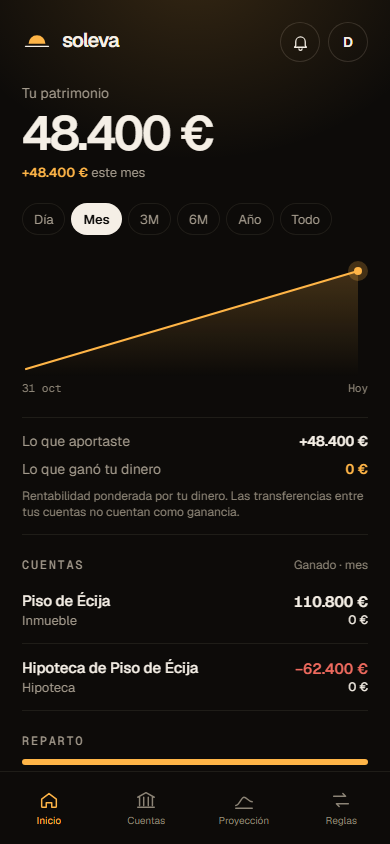
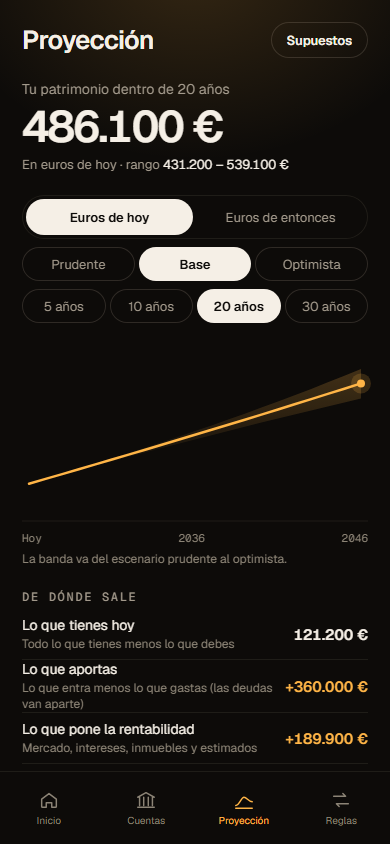
docs: v0.13.0, the projection from what you have, with how am I and what-ifs
README, README.en and CHANGELOG for block 13, cover screenshot of Projection v2,
and minimatch forced to 11.0.5 in dev (Dependabot).

diff --git a/README.md b/README.md
@@ -15,7 +15,7 @@ Apuntas una vez cómo entra y sale tu dinero (nómina, aportaciones, gastos fijo
 
 > Soleva no mueve dinero, no se conecta a tu banco y no recomienda productos. Toda proyección es una estimación, no asesoramiento.
 
-<p align="center"><img src="docs/portada.png" width="280" alt="Inicio de Soleva en móvil, con datos de prueba"></p>
+<p align="center"><img src="docs/portada.png" width="280" alt="Proyección de Soleva en móvil, con datos de prueba"></p>
 
 ## Funcionalidades
 
@@ -34,8 +34,9 @@ Hoy (bloques 0 a 6 y 8 a 12):
 - Base de datos del libro de movimientos (v0.8.0), motor diario (v0.9.0) y datos y ejecución diaria (v0.10.0): movimientos generados cada día, intereses sobre el saldo real, deudas, dividendos, valoración, rentabilidad, alertas, cierres de bolsa, tipos del BCE, Euríbor oficial y tablas de Hacienda.
 - Pantallas nuevas sobre el libro (v0.11.0): Inicio con lo que aportaste frente a lo que ganó tu dinero por periodo, Alertas, Cuenta con posiciones y movimientos, Añadir producto (buscador con ISIN y bolsas), Cuadre con lo real y Alta inicial en tres pasos.
 - Reglas y productos (v0.12.0): transferencias, ingresos, gastos y cuotas que generan movimientos; planes de inversión; cuenta remunerada con tramos; hipotecas y préstamos fijos o variables con su cuadro; vivienda por los m² de su municipio con el índice de precios del INE; coche por la tabla de Hacienda; bienes; productos sin precio público; baja, «Deshacer la baja» y borrado; y el paso de todos al libro al entrar, comprobado cuenta a cuenta. El cierre de mes da paso al cuadre, con un recordatorio mensual.
+- Proyección v2 (v0.13.0): desde lo que tienes hoy en el libro, tus reglas, planes, deudas, inmuebles, coches y bienes, a 5, 10, 20 o 30 años, en euros de hoy o de entonces, con banda prudente–optimista, de dónde sale cada euro, por tipo y lo que va a pasar (fin de una promoción, revisión de la hipoteca, deuda pagada). «Cómo voy» frente a tu plan fijado (también en Inicio), «¿Qué pasa si…?» (aportar más, pausar un plan, un gasto único) y amortizar o invertir, en dos columnas sin recomendar ninguna.
 
-En camino antes de la beta: la proyección desde tus reglas, planes, deudas y depreciaciones, y el pulido (accesibilidad, rendimiento y app instalable).
+En camino antes de la beta: el pulido (accesibilidad, rendimiento y app instalable).
 
 ## Stack
 
@@ -65,7 +66,7 @@ npm run dev
 
 ## Estado
 
-En construcción: bloques 0 a 6 y 8 a 12 cerrados (v0.12.0), desplegado con el registro cerrado y la lista de espera abierta. El pulido (bloque 7) pasa al final, sobre las pantallas nuevas. Ver [CHANGELOG.md](CHANGELOG.md).
+En construcción: bloques 0 a 6 y 8 a 13 cerrados (v0.13.0), desplegado con el registro cerrado y la lista de espera abierta. El pulido (bloque 7) pasa al final, sobre las pantallas nuevas. Ver [CHANGELOG.md](CHANGELOG.md).
 
 ## Hoja de ruta
 

diff --git a/README.en.md b/README.en.md
@@ -15,7 +15,7 @@ You note once how your money comes in and goes out (salary, contributions, fixed
 
 > Soleva does not move money, does not connect to your bank and does not recommend products. Every projection is an estimate, not advice.
 
-<p align="center"><img src="docs/portada.png" width="280" alt="Soleva Home on mobile, with test data"></p>
+<p align="center"><img src="docs/portada.png" width="280" alt="Soleva Projection on mobile, with test data"></p>
 
 ## Features
 
@@ -34,8 +34,9 @@ Today (blocks 0 to 6 and 8 to 12):
 - Ledger database (v0.8.0), daily engine (v0.9.0) and data and daily runs (v0.10.0): movements generated every day, interest on the real balance, debts, dividends, valuation, returns, alerts, stock closes, ECB rates, the official Euribor and Hacienda's car tables.
 - New screens on the ledger (v0.11.0): Home with what you put in against what your money made in each period, Alerts, Account with positions and movements, Add product (search with ISIN and exchanges), Reconcile against the real figures and a three-step onboarding.
 - Rules and products (v0.12.0): transfers, incomes, expenses and payments that generate movements; investment plans; interest accounts with tiers; fixed or variable mortgages and loans with their schedule; a home by the m² of its municipality with INE's housing price index; a car by Hacienda's table; goods; products without a public price; giving up, undoing it and deleting; and everyone moving to the ledger on the way in, checked account by account. The month close gives way to reconciling, with a monthly reminder.
+- Projection v2 (v0.13.0): from what you have today in the ledger, your rules, plans, debts, homes, cars and goods, 5, 10, 20 or 30 years ahead, in today's euros or euros of then, with a cautious–optimistic band, where each euro comes from, by type and what is coming (end of a promotion, mortgage review, debt paid off). «How am I» against your fixed plan (also on Home), what-ifs (contribute more, pause a plan, a one-off expense) and pay off or invest, in two columns without recommending either.
 
-Coming before the beta: the projection from your rules, plans, debts and depreciation, and polish (accessibility, performance and an installable app).
+Coming before the beta: polish (accessibility, performance and an installable app).
 
 ## Stack
 
@@ -65,7 +66,7 @@ npm run dev
 
 ## Status
 
-Under construction: blocks 0 to 6 and 8 to 12 done (v0.12.0), deployed with sign-up closed and the waitlist open. Polish (block 7) moves to the end, on the new screens. See [CHANGELOG.md](CHANGELOG.md).
+Under construction: blocks 0 to 6 and 8 to 13 done (v0.13.0), deployed with sign-up closed and the waitlist open. Polish (block 7) moves to the end, on the new screens. See [CHANGELOG.md](CHANGELOG.md).
 
 ## Roadmap
 

diff --git a/CHANGELOG.md b/CHANGELOG.md
@@ -4,6 +4,27 @@ Formato: [Keep a Changelog](https://keepachangelog.com/es-ES/1.1.0/). Versiones:
 
 ## [Sin publicar]
 
+## [0.13.0] - 2026-11-09
+
+### Añadido
+
+- Proyección v2 desde lo que tienes hoy en el libro: inversiones a su escenario, remuneradas con sus tramos, promoción y retención, inmuebles con su revalorización, coche por la tabla de Hacienda, bienes por su curva, productos estimados a su rentabilidad y deudas con su cuadro (las variables y mixtas se revisan con el Euríbor de hoy).
+- Horizonte de 5, 10, 20 o 30 años, euros de hoy o de entonces y escenario prudente, base u optimista, todo en vivo; línea con banda prudente–optimista e hitos.
+- «De dónde sale» (lo que tienes hoy, lo que aportas, la rentabilidad, lo que pierde valor, lo que cuestan las deudas y, en euros de hoy, lo que se come la inflación), «Por tipo» y «Lo que va a pasar»: fin de una promoción, revisión de la hipoteca con la cuota nueva, deuda pagada y fin de una regla.
+- Supuesto «Tus ingresos y gastos»: cuánto suben al año los ingresos y gastos de tus reglas (por defecto, la inflación).
+- «Cómo voy»: fija la proyección como tu plan y compara lo previsto para hoy con lo que tienes, con el porqué en tres filas; también como aviso en Inicio.
+- «¿Qué pasa si…?»: aportar más cada mes, pausar un plan o un gasto único, con la proyección de siempre como línea fantasma y un atajo a la regla ya rellena.
+- Amortizar o invertir: el mismo dinero en dos columnas iguales (intereses que te ahorras, fecha de pagada o cuota nueva, lo que valdría invertido y tu patrimonio), sin recomendar ninguna.
+- «Mi plan» en la exportación de datos.
+
+### Cambiado
+
+- La proyección anterior (por saldos y reglas v0) se retira.
+
+### Seguridad
+
+- Dependencia de desarrollo `minimatch` actualizada a 11.0.5.
+
 ## [0.12.0] - 2026-11-05
 
 ### Añadido
@@ -195,7 +216,9 @@ Las pantallas nuevas son para quien ya está en el libro de movimientos; los usu
 - Prueba E2E de entrada con Playwright, en CI sobre una rama temporal de Neon copiada de dev.
 - Primer despliegue en Cloudflare Workers.
 
-[Sin publicar]: https://github.com/jmartintechit-blip/soleva/compare/v0.11.0...HEAD
+[Sin publicar]: https://github.com/jmartintechit-blip/soleva/compare/v0.13.0...HEAD
+[0.13.0]: https://github.com/jmartintechit-blip/soleva/releases/tag/v0.13.0
+[0.12.0]: https://github.com/jmartintechit-blip/soleva/releases/tag/v0.12.0
 [0.11.0]: https://github.com/jmartintechit-blip/soleva/releases/tag/v0.11.0
 [0.10.0]: https://github.com/jmartintechit-blip/soleva/releases/tag/v0.10.0
 [0.9.0]: https://github.com/jmartintechit-blip/soleva/releases/tag/v0.9.0
